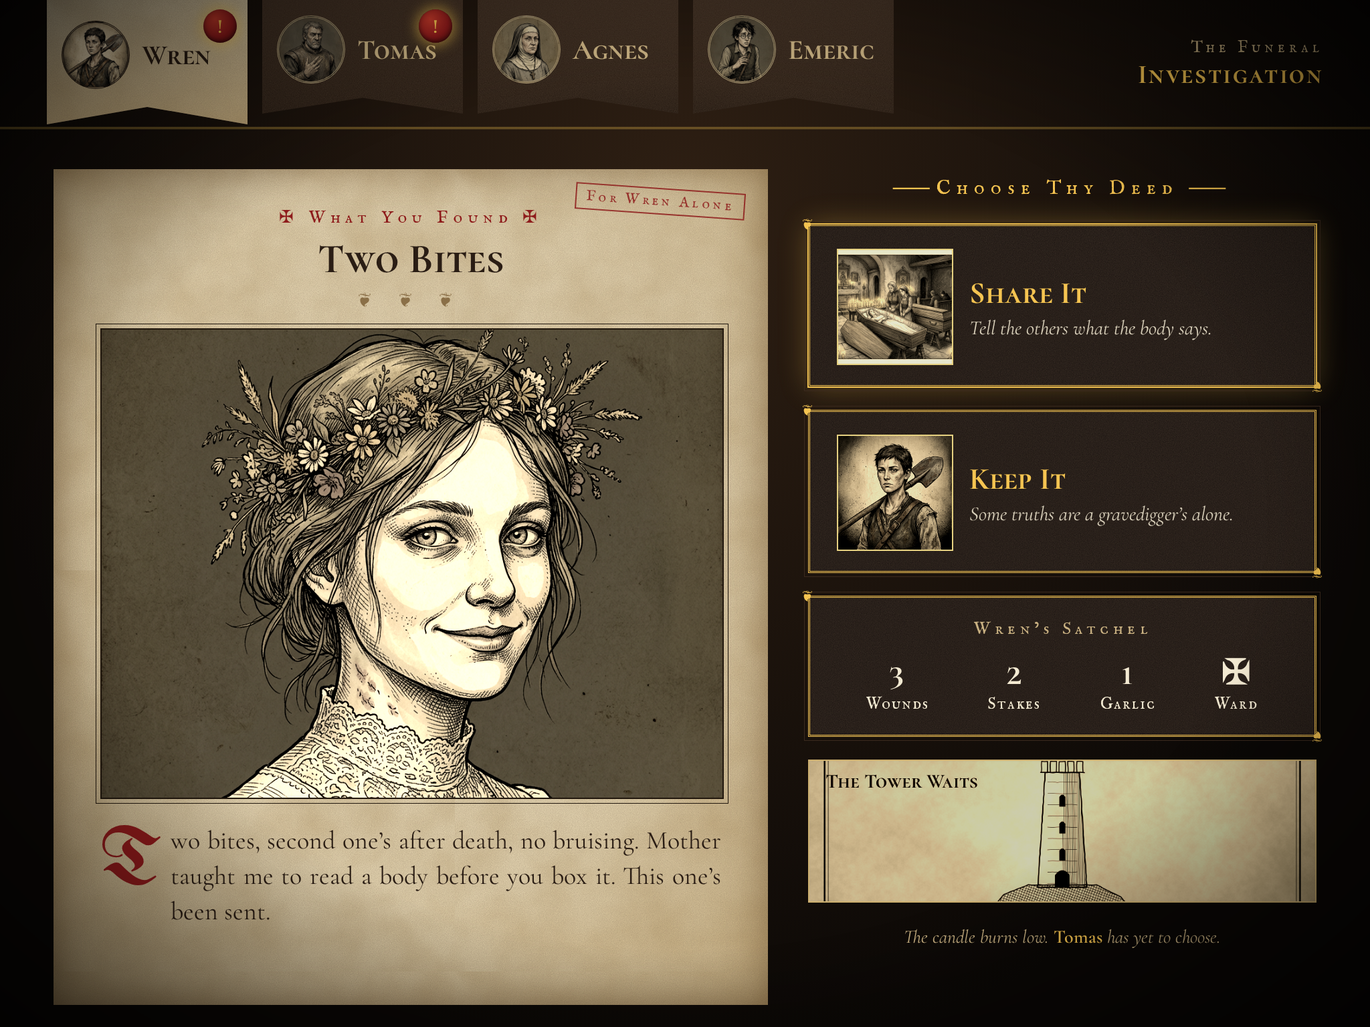
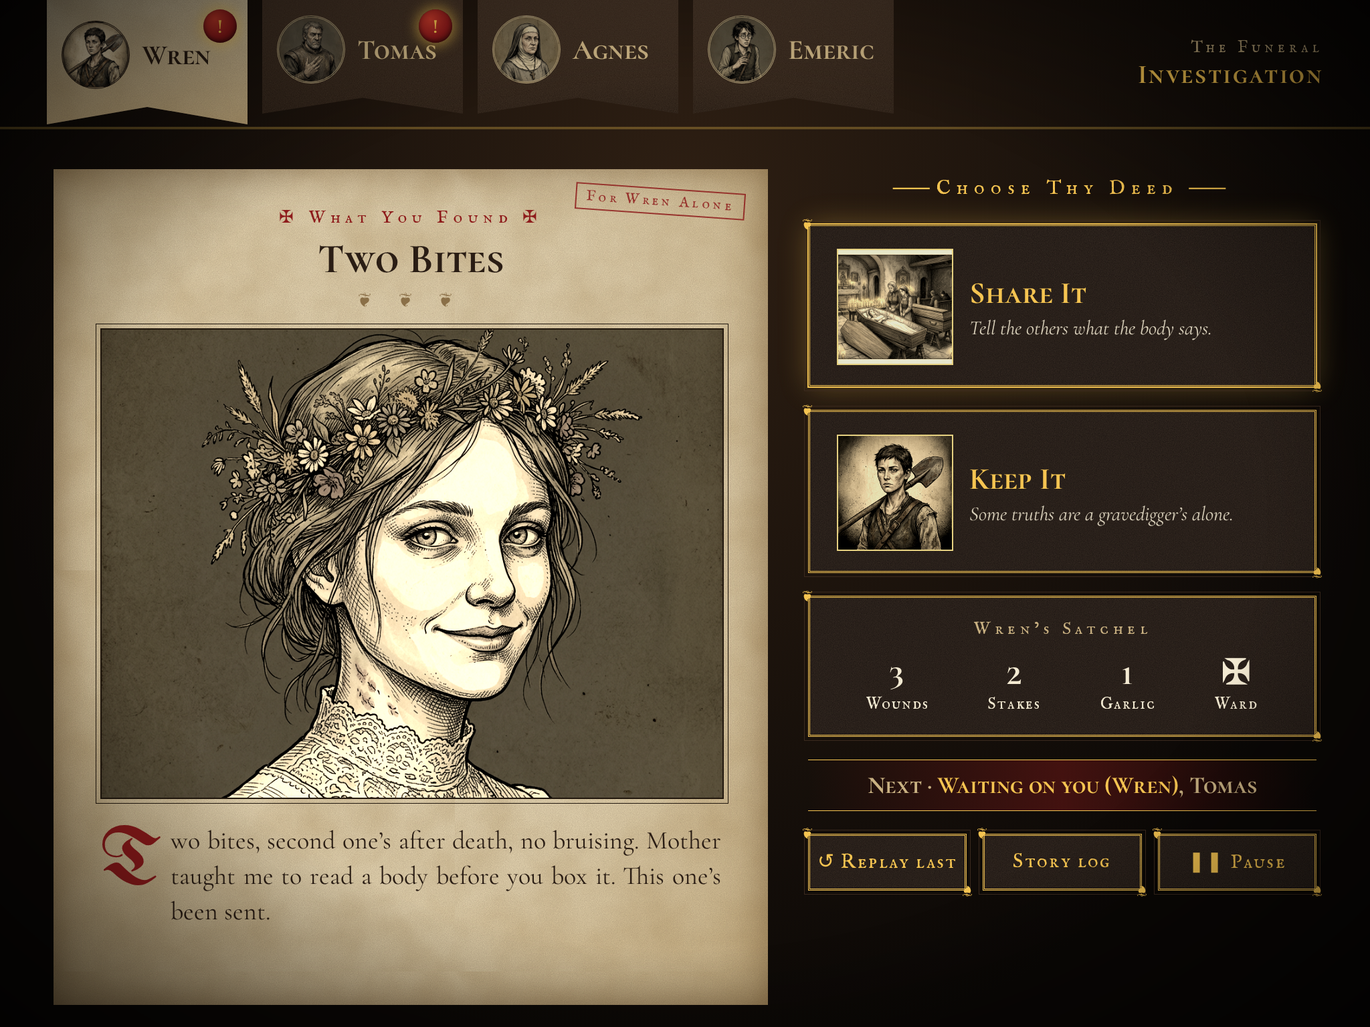
art-direction: Story board display-only with PRD-2 zones, next-step prompt, TV type rule; iPad host controls

Changed region(s): [[0.5625, 0.7188, 0.9688, 0.9375]]

diff --git a/docs/art-direction/mocks/story-board.html b/docs/art-direction/mocks/story-board.html
@@ -1,0 +1,89 @@
+<!doctype html>
+<html lang="en"><head><meta charset="utf-8"><title>Bloodtower Story board mock (1920x1080, TV, display only)</title>
+<link rel="stylesheet" href="../tokens.css">
+<style>
+  /* TV-distance rule: every glyph >= 28px, key numbers >= 48px (PRD-2). Display only: no buttons, no hover, no choices. */
+  html,body { margin:0; width:1920px; height:1080px; overflow:hidden; font-family: var(--bt-font-body); color: var(--bt-bone); font-size:28px; }
+  body { background: radial-gradient(ellipse at 50% 35%, #2b1d12 0%, var(--bt-void) 72%), var(--bt-void); }
+  .vignette { position:fixed; inset:0; pointer-events:none; background: radial-gradient(ellipse at center, transparent 58%, rgb(0 0 0 / .7) 100%); }
+  .lbl { font-family: var(--bt-font-label); font-size:28px; letter-spacing:.1em; color: var(--bt-parchment-dark); }
+  .num { font-family: var(--bt-font-title); font-size:64px; line-height:1; color: var(--bt-candle); }
+  header { display:grid; grid-template-columns: 420px 1fr 420px; align-items:center; height:132px; padding: 0 36px; gap:24px; border-bottom: 3px double color-mix(in srgb, var(--bt-candle) 55%, transparent); }
+  .zone { display:flex; align-items:center; gap:20px; padding: 10px 22px; height:96px; box-sizing:border-box; }
+  .zone .t { display:flex; flex-direction:column; }
+  .zone .t b { font-family: var(--bt-font-title); font-size:34px; color: var(--bt-bone); font-weight:700; line-height:1.1; }
+  header h1 { margin:0; text-align:center; font-family: var(--bt-font-title); color: var(--bt-candle); font-size:52px; letter-spacing:.06em; line-height:1.05; text-shadow: 0 0 18px rgb(245 196 81 / .35); }
+  header h1 small { display:block; font-family: var(--bt-font-label); font-size:28px; letter-spacing:.25em; color: var(--bt-parchment-dark); }
+  .skulls { justify-content:flex-end; }
+  .skulls .pair { text-align:center; }
+  .skulls .pair .num { display:block; }
+  main { display:grid; grid-template-columns: 440px 1fr 400px; gap:30px; padding: 26px 36px 30px; height: 948px; box-sizing:border-box; }
+  .roll { display:flex; flex-direction:column; gap:22px; }
+  .roll .cart { height:170px; }
+  .pub { display:flex; flex-direction:column; padding:18px; gap:14px; }
+  .pub .img { flex:1; background-size:cover; background-position:center 15%; border:2px solid var(--bt-iron-gall); filter: sepia(.2); }
+  .pub .nm { font-family: var(--bt-font-title); font-size:52px; color: var(--bt-candle); text-align:center; line-height:1; }
+  .pub .row { display:flex; justify-content:space-around; text-align:center; }
+  .pub .row .num { display:block; }
+  .pub .row .num.r { color: var(--bt-flame); }
+  .pub .carry { text-align:center; font-size:30px; font-style:italic; }
+  .cart { position:relative; display:grid; grid-template-columns: 108px 1fr 84px; gap:16px; align-items:center; height:150px; padding: 0 20px 0 16px; box-sizing:border-box;
+     background: var(--bt-grain), var(--bt-foxing), radial-gradient(ellipse at 40% 50%, var(--bt-parchment) 50%, var(--bt-parchment-dark) 100%);
+     color: var(--bt-iron-gall); border: 2px solid var(--bt-iron-gall); outline:1px solid var(--bt-vellum-shadow); outline-offset:-8px;
+     clip-path: polygon(20px 0, calc(100% - 20px) 0, 100% 20px, 100% calc(100% - 20px), calc(100% - 20px) 100%, 20px 100%, 0 calc(100% - 20px), 0 20px); box-shadow: inset 0 0 40px rgb(90 60 25 / .6); }
+  .cart.act { outline: 3px solid var(--bt-blood); outline-offset:-10px; }
+  .cart.away { filter: sepia(.4) brightness(.6); }
+  .cart .ph { width:104px; height:104px; border-radius:50%; border:3px double var(--bt-iron-gall); background-size:cover; background-position:center 20%; }
+  .cart .nm { font-family: var(--bt-font-title); font-size:40px; line-height:1; }
+  .cart .st { font-family: var(--bt-font-label); font-size:28px; letter-spacing:.06em; margin-top:8px; }
+  .cart .st.choosing { color: var(--bt-blood); }
+  .cart .cor { text-align:center; }
+  .cart .cor .num { color: var(--bt-blood); font-size:56px; }
+  .cart .cor .lbl { color:#5a4128; font-size:28px; letter-spacing:0; }
+  .story { display:grid; grid-template-rows: 1fr auto auto; gap:22px; }
+  .page { display:grid; grid-template-rows: auto 1fr; gap:18px; padding: 24px 32px 28px; }
+  .page .kicker { font-family: var(--bt-font-label); letter-spacing:.2em; color: var(--bt-blood); font-size:28px; }
+  .page h2 { font-family: var(--bt-font-title); font-size:48px; margin: 2px 0 10px; line-height:1.05; }
+  .page p { font-size:32px; line-height:1.32; margin:0; }
+  .page p::first-letter { font-family: var(--bt-font-initial); float:left; font-size:100px; line-height:.8; padding: 8px 10px 0 0; color: var(--bt-blood); }
+  .page .still { background-size:cover; background-position:center; border:2px solid var(--bt-iron-gall); outline:1px solid var(--bt-iron-gall); outline-offset:5px; filter: sepia(.5) contrast(1.1); }
+  .items { display:flex; align-items:center; gap:30px; padding: 14px 28px; height:96px; box-sizing:border-box; }
+  .items .it { display:flex; align-items:baseline; gap:12px; }
+  .items .it .num { font-size:52px; }
+  .items .it span { font-size:30px; }
+  .items .it i { font-size:28px; color: var(--bt-parchment-dark); }
+  .next { text-align:center; padding: 14px 20px; border-top:1px solid var(--bt-candle); border-bottom:1px solid var(--bt-candle); background: linear-gradient(90deg, transparent, rgb(142 27 27 / .35), transparent); }
+  .next .lbl { display:block; font-size:28px; color: var(--bt-parchment-dark); letter-spacing:.3em; }
+  .next b { font-family: var(--bt-font-title); font-size:60px; color: var(--bt-candle); letter-spacing:.04em; text-shadow: 0 0 22px rgb(245 196 81 / .4); }
+</style></head><body>
+<header>
+  <div class="zone bt-panel"><div class="num">II</div><div class="t"><span class="lbl">Night · Phase</span><b>The Lid</b></div></div>
+  <h1><small>The Funeral</small>Vellmoor Church</h1>
+  <div class="zone bt-panel skulls"><span class="lbl">Skulls</span><div class="pair"><span class="num">7</span><span class="lbl">supply</span></div><div class="pair"><span class="num" style="color:var(--bt-flame)">1</span><span class="lbl">tonight</span></div></div>
+</header>
+<main>
+  <aside class="roll">
+    <div class="cart act"><div class="ph" style="background-image:url(../../../apps/burgomaster-funeral-poc/assets/portraits/wren.png)"></div><div><div class="nm">Wren</div><div class="st choosing">Choosing</div></div><div class="cor"><div class="num">0</div><div class="lbl">corr.</div></div></div>
+    <div class="cart"><div class="ph" style="background-image:url(../../../apps/burgomaster-funeral-poc/assets/portraits/tomas.png)"></div><div><div class="nm">Tomas</div><div class="st choosing">Choosing</div></div><div class="cor"><div class="num">1</div><div class="lbl">corr.</div></div></div>
+    <div class="cart"><div class="ph" style="background-image:url(../../../apps/burgomaster-funeral-poc/assets/portraits/agnes.png)"></div><div><div class="nm">Agnes</div><div class="st">Locked</div></div><div class="cor"><div class="num">0</div><div class="lbl">corr.</div></div></div>
+    <div class="cart away"><div class="ph" style="background-image:url(../../../apps/burgomaster-funeral-poc/assets/portraits/emeric.png)"></div><div><div class="nm">Emeric</div><div class="st">Away</div></div><div class="cor"><div class="num">2</div><div class="lbl">corr.</div></div></div>
+  </aside>
+  <section class="story">
+    <div class="page bt-parchment">
+      <div><div class="kicker">✠ The Second Coffin ✠</div><h2>Every Candle Leans</h2>
+      <p>The flies have gone quiet. Every candle leans toward the second coffin. There is time to put a stake through a girl in her wedding dress, or time to wait and be sure.</p></div>
+      <div class="still" style="background-image:url(../../../apps/burgomaster-funeral-poc/assets/stills/n2-burgomasters-funeral.lid-choice@dashboard.png)"></div>
+    </div>
+    <div class="items bt-panel"><span class="lbl">Party</span>
+      <div class="it"><span class="num">1</span><span>Stake</span><i>Tomas</i></div>
+      <div class="it"><span class="num">1</span><span>Holy symbol</span><i>Agnes</i></div>
+      <div class="it"><span class="num">2</span><span>Garlic</span><i>Wren</i></div></div>
+    <div class="next"><span class="lbl">Next</span><b>Waiting on Wren, Tomas</b></div>
+  </section>
+  <aside class="pub bt-panel"><span class="lbl" style="text-align:center">Now acting</span><div class="img" style="background-image:url(../../../apps/burgomaster-funeral-poc/assets/portraits/wren.png)"></div>
+    <div class="nm">Wren</div>
+    <div class="row"><div><span class="num r">0</span><span class="lbl">corruption</span></div><div><span class="num">2</span><span class="lbl">carried</span></div></div>
+    <div class="carry">Garlic ×2 · spade</div></aside>
+</main>
+<div class="vignette"></div>
+</body></html>

diff --git a/docs/art-direction/mocks/ipad.html b/docs/art-direction/mocks/ipad.html
@@ -44,6 +44,10 @@
   .satchel .row b { display:block; font-family: var(--bt-font-title); font-size:52px; color: var(--bt-bone); }
   .tower { height: 210px; background: url(../../../apps/burgomaster-funeral-poc/assets/shared/dt1981/slides/tower.png) center/cover; border:2px solid var(--bt-candle); filter: sepia(.7) brightness(.75) contrast(1.2); position:relative; }
   .tower span { position:absolute; top:12px; left:24px; font-family: var(--bt-font-title); color: var(--bt-iron-gall); font-size:30px; }
+.next { text-align:center; font-family: var(--bt-font-title); font-size:36px; color: var(--bt-parchment-dark); padding:16px; border-top:1px solid var(--bt-candle); border-bottom:1px solid var(--bt-candle); background: linear-gradient(90deg, transparent, rgb(142 27 27 / .4), transparent); }
+  .next mark { background:none; color: var(--bt-candle); }
+  .host { display:grid; grid-template-columns: 1fr 1fr 1fr; gap:24px; }
+  .hb { text-align:center; padding:20px 8px; font-family: var(--bt-font-label); font-size:30px; letter-spacing:.08em; color: var(--bt-candle); }
 </style></head><body>
 <nav>
   <div class="tab on"><div class="ph" style="background-image:url(../../../apps/burgomaster-funeral-poc/assets/portraits/wren.png)"></div><div class="nm">Wren</div><div class="badge">!</div></div>
@@ -66,8 +70,8 @@
     <div class="card bt-panel hot"><div class="ill" style="background-image:url(../../../apps/burgomaster-funeral-poc/assets/stills/n2-burgomasters-funeral.02@dashboard.png)"></div><div><div class="vb">Share It</div><div class="ds">Tell the others what the body says.</div></div></div>
     <div class="card bt-panel"><div class="ill" style="background-image:url(../../../apps/burgomaster-funeral-poc/assets/portraits/wren.png)"></div><div><div class="vb">Keep It</div><div class="ds">Some truths are a gravedigger’s alone.</div></div></div>
     <div class="satchel bt-panel"><h4>Wren’s Satchel</h4><div class="row"><span><b>3</b>Wounds</span><span><b>2</b>Stakes</span><span><b>1</b>Garlic</span><span><b>✠</b>Ward</span></div></div>
-    <div class="tower"><span>The Tower Waits</span></div>
-    <div class="hint">The candle burns low. <mark>Tomas</mark> has yet to choose.</div>
+    <div class="next">Next · <mark>Waiting on you (Wren)</mark>, Tomas</div>
+    <div class="host"><div class="bt-panel hb">↺ Replay last</div><div class="bt-panel hb">Story log</div><div class="bt-panel hb">❚❚ Pause</div></div>
   </aside>
 </main>
 <div class="vignette"></div>

diff --git a/docs/art-direction/tokens.css b/docs/art-direction/tokens.css
@@ -48,9 +48,11 @@
   --bt-font-label: "IM Fell English SC", "Cormorant SC", serif;
   --bt-font-title: "Cormorant SC", "IM Fell English SC", serif;
   --bt-font-initial: "UnifrakturMaguntia", "Cormorant SC", serif;
-  --bt-size-caption: clamp(1.6rem, 2.2vw, 2.6rem);
-  --bt-size-body: 1.35rem;
-  --bt-size-label: 1.05rem;
+  --bt-size-caption: clamp(1.75rem, 2.3vw, 2.75rem);
+  --bt-size-body: 1.75rem; /* 28px floor (PRD-2) */
+  --bt-size-number: 3rem; /* 48px floor for key numbers */
+  --bt-size-prompt: 3.75rem; /* next-step prompt */
+  --bt-size-label: 1.75rem;
   --bt-tracking-label: 0.12em;
 
   /* frames */
@@ -177,9 +179,23 @@
 .bt-flicker {
   animation: bt-candle 3.7s steps(1, end) infinite;
 }
+.bt-badge {
+  animation: bt-badge var(--bt-dur-badge-pulse) ease-in-out infinite;
+}
+@keyframes bt-fade-in {
+  from {
+    opacity: 0;
+  }
+  to {
+    opacity: 1;
+  }
+}
 @media (prefers-reduced-motion: reduce) {
-  .bt-ink-in,
-  .bt-flicker {
+  .bt-ink-in {
+    animation: bt-fade-in 300ms ease-out both;
+  }
+  .bt-flicker,
+  .bt-badge {
     animation: none;
   }
 }

diff --git a/docs/art-direction/mocks/render.py b/docs/art-direction/mocks/render.py
@@ -1,8 +1,8 @@
-"""Render the mocks to PNG with Playwright (python). Usage: python render.py  (run from this folder; fonts in ../fonts)."""
+"""Render the mocks to PNG with Playwright (python). Usage: python3 render.py  (run from this folder; fonts in ../fonts)."""
 import pathlib
 from playwright.sync_api import sync_playwright
 here = pathlib.Path(__file__).resolve().parent
-jobs = [("dashboard.html", 1920, 1080, "dashboard-1920x1080.png"), ("ipad.html", 2048, 1536, "ipad-2048x1536.png"), ("moodboard.html", 2400, 1320, "../moodboard.png")]
+jobs = [("story-board.html", 1920, 1080, "story-board-1920x1080.png"), ("ipad.html", 2048, 1536, "ipad-2048x1536.png"), ("moodboard.html", 2400, 1320, "../moodboard.png")]
 with sync_playwright() as p:
     b = p.chromium.launch(args=["--allow-file-access-from-files"])
     for src, w, h, out in jobs:

diff --git a/docs/art-direction/game-look.md b/docs/art-direction/game-look.md
@@ -1,6 +1,6 @@
 # Bloodtower: game look (art direction)
 
-Goal: the Dashboard and iPads must feel like a **video game built from a 1978 rulebook**, not a website or a business app.
+Goal: the Story board and iPads must feel like a **video game built from a 1978 rulebook**, not a website or a business app.
 Touchstones: stills like the 1978–79 AD&D *Player's Handbook* / *DMG* ink plates; clips like Bakshi's 1978 *Lord of the Rings* (rotoscoped, painted backgrounds, heavy shadow); the 1981 Dark Tower ink slides as bookends.
 
 Files in this folder:
@@ -8,9 +8,9 @@ Files in this folder:
 | File | What |
 | --- | --- |
 | `moodboard.png` | Existing art + palette swatches + font samples |
-| `mocks/dashboard-1920x1080.png` | Dashboard mock (Mac browser) |
+| `mocks/story-board-1920x1080.png` | Story board mock (Mac browser, full screen on the TV, display only) |
 | `mocks/ipad-2048x1536.png` | iPad mock (one hunter tab) |
-| `mocks/dashboard.html`, `mocks/ipad.html`, `mocks/moodboard.html` | Static HTML/CSS source of the above (uses the real kit art by relative path) |
+| `mocks/story-board.html`, `mocks/ipad.html`, `mocks/moodboard.html` | Static HTML/CSS source of the above (uses the real kit art by relative path) |
 | `mocks/render.py` | Playwright (python) renderer for the three PNGs |
 | `tokens.css` | Drop-in CSS tokens, frames and keyframes for Wright |
 | `fonts/fetch-fonts.sh` | Downloads the font files (not committed; `.ttf` is gitignored) |
@@ -22,7 +22,7 @@ Note: the 1981 tower slide is the tracked file `apps/burgomaster-funeral-poc/ass
 
 | Role | Family | Exact file | Use |
 | --- | --- | --- | --- |
-| Body, captions, VO subtitles | Cormorant Garamond | Upstream `CormorantGaramond[wght].ttf`, `CormorantGaramond-Italic[wght].ttf` (variable 300–700). `fetch-fonts.sh` saves `CormorantGaramond-VF.ttf` and `CormorantGaramond-Italic-VF.ttf`, and `tokens.css` loads those. | Captions italic 500; body roman 500. Never below 22 px on Dashboard, 28 px on iPad. |
+| Body, captions, VO subtitles | Cormorant Garamond | Upstream `CormorantGaramond[wght].ttf`, `CormorantGaramond-Italic[wght].ttf` (variable 300–700). `fetch-fonts.sh` saves `CormorantGaramond-VF.ttf` and `CormorantGaramond-Italic-VF.ttf`, and `tokens.css` loads those. | Captions italic 500; body roman 500. Never below 28 px on the Story board (TV rule, §4a) or on iPad. |
 | Titles, hunter names, choice verbs | Cormorant SC | `CormorantSC-Bold.ttf` | Small caps, tracking 0.04–0.08em. |
 | Labels, stats, tabs, kickers | IM Fell English SC | `IMFeENsc28P.ttf` (roman `IMFeENrm28P.ttf` as fallback body) | Letterpress grit; tracking 0.12–0.3em. Replaces every sans-serif label. |
 | Drop caps / seals only | UnifrakturMaguntia | `UnifrakturMaguntia-Book.ttf` | One initial per page, wax-seal glyphs. Never for words. |
@@ -54,15 +54,25 @@ Art treatment in UI: `filter: sepia(.2–.55) contrast(1.05–1.15)` so AI art s
 - **Parchment page** (`.bt-parchment`): radial parchment gradient + SVG grain + low-frequency "foxing" noise, burned **inset** edge. Holds narration, findings, rules text. Kicker in blood small caps, title in Cormorant SC, a `❦ ❦ ❦` ornament line, then justified text with a blood Fraktur drop cap.
 - **Inked panel** (`.bt-panel`): soot fill + grain, 3px **double** candle rule, 1px umber outline offset 5px, a `❦` fleuron at two opposite corners. Holds portraits, choices, inventory.
 - **Ornate border** for art: 2px iron-gall rule + 1px outline offset 4–6px (a "plate" in a book). Art never touches a frame edge without it.
-- **Cartouche hunter card** (Dashboard roll): parchment, clipped corners (`clip-path` octagon, 22px chamfer), inner hairline rule, round double-ringed portrait medallion, name in Cormorant SC, epithet italic, status in IM Fell SC. Selected = blood inner rule. Absent hunter = sepia + 0.62 brightness.
-- **Wax-seal badge**: 50–54px circle, red radial gradient, candle letter or `!`, candle glow. Used for "choice waiting" on Dashboard cartouches and iPad tabs.
+- **Cartouche hunter card** (Story board roll): parchment, clipped corners (`clip-path` octagon, 22px chamfer), inner hairline rule, round double-ringed portrait medallion, name in Cormorant SC, epithet italic, status in IM Fell SC. Acting hunter = blood inner rule. Display only. Absent hunter = sepia + 0.62 brightness.
+- **Wax-seal badge**: 50–54px circle, red radial gradient, candle letter or `!`, candle glow. Used for "choice waiting" on iPad tabs only (the Story board shows the public word `Choosing` instead).
 - **Bookmark-ribbon tabs** (iPad): one per hunter, ribbon notch at the bottom (`clip-path`), active tab is parchment and 16px longer.
 - Corners are square or chamfered. `border-radius` only for medallions and seals.
 
 ## 4. Layouts
 
-- **Dashboard (1920x1080)**: chapter title as a centered rubric header with gold double rules. Left 430px: "The Hunters" roll of cartouches. Right: selected hunter view = big portrait in an inked panel with name plate and stats, a parchment scene page with the still, and choices as inked panels below. **Cut scenes play full-screen**: the whole UI ink-fades to void (1200 ms), clip plays edge-to-edge with letterbox in `--bt-void`, captions centered bottom in Cormorant Garamond italic 40px bone with candle `<mark>`; UI returns with a page turn.
-- **iPad (2048x1536)**: top ribbon tabs, one per hunter, wax seal when a choice is waiting. Left: parchment "What You Found" page (stamped "For Wren Alone" on privates). Right: "Choose Thy Deed" choice panels (illustrated thumb + verb + italic line), satchel panel, 1981 tower plate, waiting-on hint.
+- **Story board (1920x1080, TV, display only; V2-1, V2-8, PRD-2)**: no buttons, no hover, no choices, no host controls, nothing to touch. Fixed zones:
+  - **Header**: left = *phase/night* zone (night numeral 64px + phase name); centre = chapter title; right = *skulls* zone (supply and dropped tonight, 64px numerals).
+  - **Left sidebar**: display-only hunter roll (cartouches). Each shows name, *public* status only (`Choosing`, `Locked`, `Sitting out` once public at Continue, `Away` for absent) and *corruption* as a 56px numeral. Never the deed a hunter picked (SC-2, R3-6). The roll follows the hunter currently acting (blood inner rule) or cycles when nobody acts.
+  - **Main story view**: parchment scene page (kicker, title, narration ≥32px, shared still). Below it the *party items* zone (count 52px + item + carrier).
+  - **Next-step prompt** (V2-3): always present, full width under the story, Cormorant SC 60px candle on a blood band, e.g. "Waiting on Wren, Tomas".
+  - **Right**: the acting hunter's *public* view (portrait, corruption and carried-item numerals, carried items). Private content never appears on the Story board.
+  - **Cut scenes play full-screen**: the whole board ink-fades to void (1200 ms), clip plays edge-to-edge with letterbox in `--bt-void`, captions centred bottom in Cormorant Garamond italic 44px bone with candle `<mark>`; the board returns with a page turn.
+- **iPad (2048x1536)**: top ribbon tabs, one per hunter, wax seal when a choice is waiting. Left: parchment "What You Found" page (stamped "For Wren Alone" on privates). Right: "Choose Thy Deed" choice panels (illustrated thumb + verb + italic line), satchel panel, the device half of the next-step prompt (highlighted when it is this hunter's turn), and host/utility controls: Replay last, Story log, Pause (Begin, Continue and Won/Lost appear in the same slot when the step calls for them; V2-2, V2-5, V2-6). All choices and host controls live on iPads/phones only.
+
+## 4a. TV-distance type rule (Story board)
+
+The Story board is read from the couch on a TV at 1920x1080. Every glyph, including labels, kickers and captions, is **≥ 28 px**; key numbers (night, skulls, corruption, item counts) are **≥ 48 px** (the mock uses 52–64 px); the next-step prompt is ≥ 56 px. Body weight 500, no light weights, high contrast (bone or candle on soot, iron-gall on parchment; never blood text on soot). Check: view the PNG at 25% size; if a word can't be read, it is too small. iPad: body ≥ 28 CSS px too (at the 2048x1536 mock scale that is 56 mock px for body; the current iPad mock is a layout sketch, not a type spec).
 
 ## 5. Motion
 
@@ -73,14 +83,14 @@ Art treatment in UI: `filter: sepia(.2–.55) contrast(1.05–1.15)` so AI art s
 | Page turn (scene change, tab change) | 700 ms | `cubic-bezier(.65,0,.35,1)` | `rotateY(-180deg)` from left spine with `perspective: 2000px`; shade gradient sweeps across. |
 | Badge pulse (choice waiting) | 2.4 s loop | ease-in-out | Candle glow 0→14px. Stops the instant the choice is locked. |
 | Cut-scene enter/exit | 1200 ms | ease-in / ease-out | Fade through `--bt-void`, never a white flash. |
-| Choice press | 120 ms down, 260 ms up | ease-out | Scale .98 + flame inner glow, like pressing a seal. |
+| Choice press (iPad/phone only) | 120 ms down, 260 ms up | ease-out | Scale .98 + flame inner glow, like pressing a seal. The Story board has no press states. |
 
-Respect `prefers-reduced-motion`: replace wipes/turns with 300 ms opacity fades; no flicker.
+Respect `prefers-reduced-motion`: replace wipes/turns with 300 ms opacity fades (`tokens.css` does this for `.bt-ink-in`); no flicker and no badge pulse.
 
 ## 6. Sound UI hints
 
 All UI sounds sit around −20 LUFS, under VO (lines currently measure ≈ −18 LUFS integrated; the 1981 kit is −16 LUFS). Short, dry, physical:
-- Choice hover: faint quill scratch (iPad: none, tap only). Choice lock: wax-seal press thud + soft candle whoosh.
+- Story board: no UI sounds of its own, only shared cues. iPad: tap = faint quill scratch; choice lock: wax-seal press thud + soft candle whoosh.
 - Tab / scene change: parchment page turn (≤ 400 ms).
 - Choice waiting badge appears: single low bell or the 1981-style square-wave blip, once (no repeat nagging).
 - Ink-in reveal: optional brush hiss under 300 ms. Cut scene start: candles gutter (`audio/sfx/candle-gutter.wav`), then music.
@@ -101,9 +111,9 @@ All UI sounds sit around −20 LUFS, under VO (lines currently measure ≈ −18
 ## 8. Implementation notes for Wright
 
 - Import `docs/art-direction/tokens.css` once at the root layout. Its `@font-face` urls are relative to that file (`fonts/…`, the names `fetch-fonts.sh` writes, not the upstream bracket names). In the app, load those same files with `next/font/local` and map them to `--bt-font-*`.
-- Primitives to build as components: `<Parchment>`, `<InkPanel>`, `<Plate>` (framed art), `<Cartouche hunter selected waiting absent>`, `<WaxSeal>`, `<RibbonTabs>`, `<ChoiceCard verb line art hot>`, `<DropCapParagraph>`, `<CutScene src captions>`.
+- Primitives to build as components: `<Parchment>`, `<InkPanel>`, `<Plate>` (framed art), `<Cartouche hunter acting status corruption>` (display only), `<WaxSeal>`, `<RibbonTabs>`, `<ChoiceCard verb line art hot>` (iPad only), `<NextStepPrompt>`, `<StatusZone label value>`, `<DropCapParagraph>`, `<CutScene src captions>`.
 - Keyframes `bt-ink-in`, `bt-candle`, `bt-badge` are in `tokens.css`; page turn: add a `bt-page-turn` keyframe with the values in §5.
 - Textures are inline SVG data URIs (`--bt-grain`, `--bt-foxing`), so no extra image files. Keep them as background layers, not `<img>`.
 - Biome: tokens use kebab-case custom properties; no `!important`.
 - Captions: wrap the currently spoken word or key noun in `<mark>`; CSS turns it candle yellow.
-- Mock sizes are 1:1 CSS px (Dashboard 1920x1080; iPad 2048x1536 = iPad at 2x, so halve px values when building for 1024x768 CSS viewport).
+- Mock sizes are 1:1 CSS px (Story board 1920x1080; iPad 2048x1536 = iPad at 2x, so halve px values when building for 1024x768 CSS viewport).
